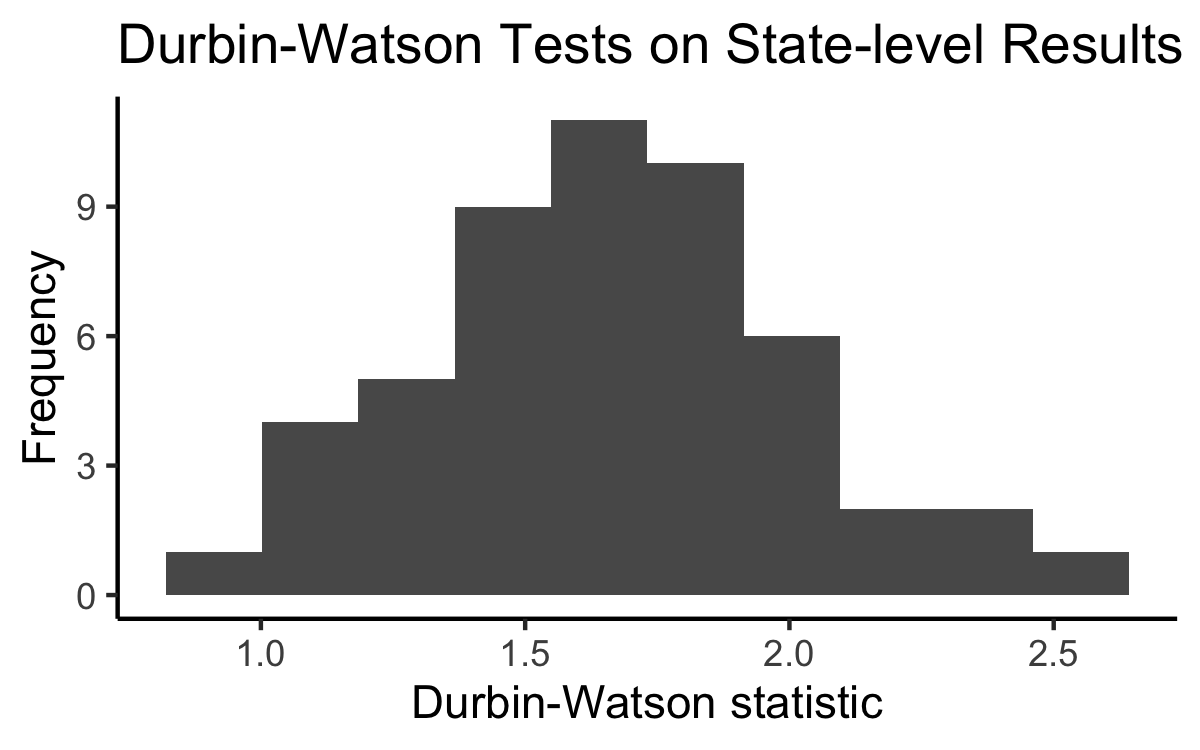
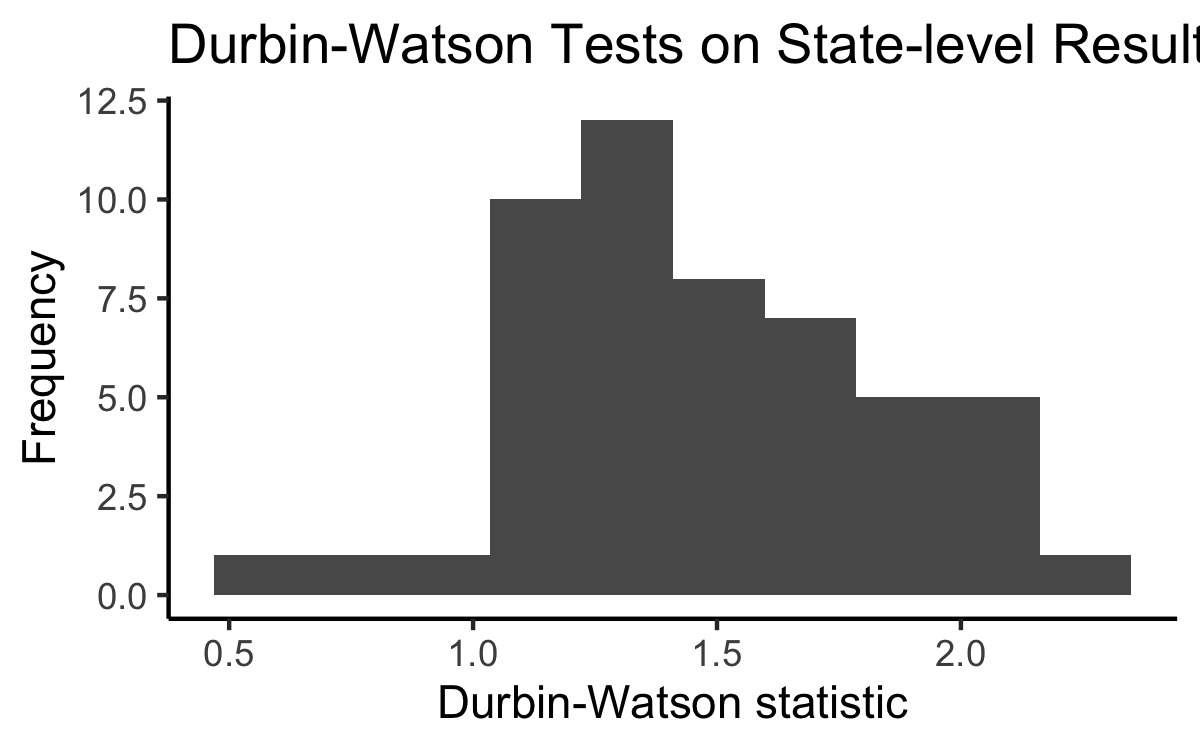
testing image link

diff --git a/docs/posts/week1.md b/docs/posts/week1.md
@@ -2,8 +2,10 @@
 ### September 13, 2020
 This week, I decided to do Extension 3:
 
-<img src = "../images/extension3.png" width = "1200">
+<img src = "../images/extension3.png">
 
-This graphic, as well as the 538 swing state graphic replication, inspired me to think more carefully about what causes swings in voting share in a particular state from election to election. I decided to ask a basic question: is the fluctuation in state-level vote random? We assume that 
+[Click here to see full-size image](https://hwsimpson33.github.io/pres2020/images/extension3.png)
+
+This graphic, as well as the 538 swing state graphic replication from section, inspired me to think more carefully about what causes swings in voting share in a particular state from election to election. I decided to ask a basic question: is the fluctuation in state-level vote random? We talk a lot about which states have become safe or swing states, assuming that changes from election to election in state-level voting patterns are driven by political events and not random chance. As a preliminary check, I decided to test this hypothesis.
 
 [Back to main page](https://hwsimpson33.github.io/pres2020/)
